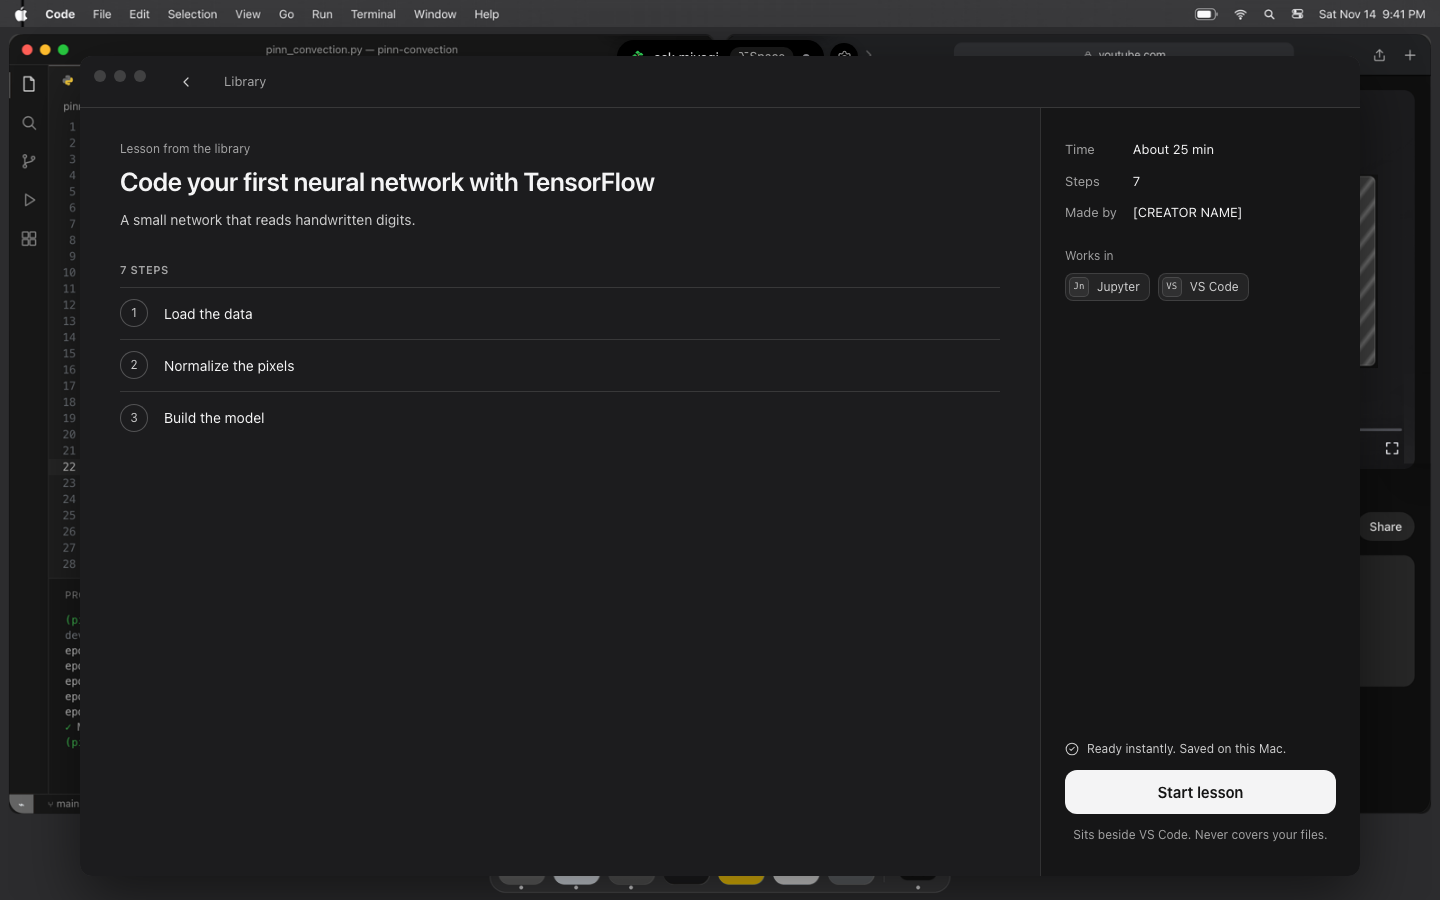
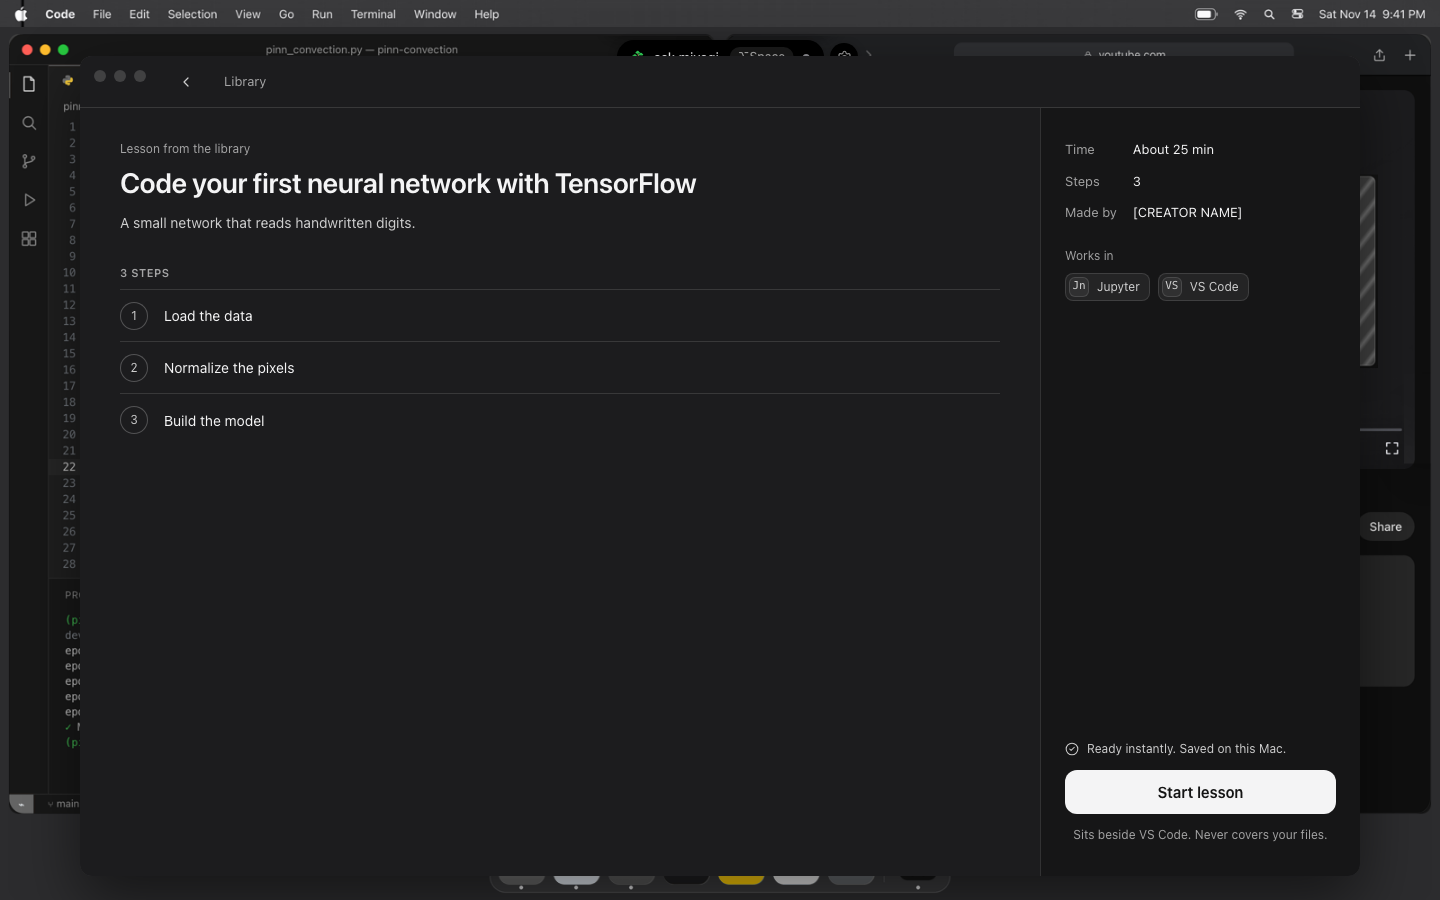
library: fix round 2, shots re-captured from this branch, YouTube preview shot, brief
The stage fixture's first lesson carries a YouTube watch link so the preview's video box
(thumbnail) can be seen in the browser stage.

Changed region(s): [[0.0625, 0.1867, 0.5, 0.2489], [0.0938, 0.3422, 0.2188, 0.4667], [0.0938, 0.28, 0.125, 0.3111]]

diff --git a/app/src/renderer/src/features/library/web.ts b/app/src/renderer/src/features/library/web.ts
@@ -16,7 +16,7 @@ import { canSend } from '../../core/lesson'
 import { cleanDetail, cleanList, isLibraryId, type LibraryDetail } from './sanitize'
 
 const STAGE_ITEMS: LibraryItem[] = [
-  { id: 'stage_mnist', title: 'Code your first neural network with TensorFlow', by: '[CREATOR NAME]', steps: 7, estMinutes: 25, tools: ['jupyter', 'vscode'], ready: true, progress: { stepIndex: 3, stepTitle: 'Train it', total: 7 }, source: { kind: 'youtube', title: 'Code your first neural network with TensorFlow', channel: '[CREATOR NAME]' } },
+  { id: 'stage_mnist', title: 'Code your first neural network with TensorFlow', by: '[CREATOR NAME]', steps: 7, estMinutes: 25, tools: ['jupyter', 'vscode'], ready: true, progress: { stepIndex: 3, stepTitle: 'Train it', total: 7 }, source: { kind: 'youtube', title: 'Code your first neural network with TensorFlow', channel: '[CREATOR NAME]', durationS: 1420, url: 'https://www.youtube.com/watch?v=AXXnSzmpyoI' } },
   { id: 'stage_pandas', title: 'Clean a CSV with pandas', by: '[CREATOR NAME]', steps: 6, estMinutes: 20, tools: ['jupyter'], ready: true, progress: { stepIndex: 2, stepTitle: 'Drop the empty rows', total: 6 } },
   { id: 'stage_venv', title: 'Set up Python with a virtual environment', by: '[ORG NAME]', steps: 5, estMinutes: 10, tools: ['terminal', 'vscode'], ready: true },
   { id: 'stage_plot', title: 'Plot your data with matplotlib', by: '[CREATOR NAME]', steps: 6, estMinutes: 15, tools: ['jupyter'], ready: true },

diff --git a/app/agents/library.md b/app/agents/library.md
@@ -1,6 +1,6 @@
 # library
 
-**Status:** pass 1 done (plan A6): Library window + lesson preview, main data path, stage stand-in; typecheck green, brand lint clean, stage checked headless. Draft PR #168 into `adrian/shell`. Fix round 1 done: a preview that got no answer is asked again on refresh, caps load on their own (no "can't start" until known), the video opens only the canonical watch link, the step count follows the step list, raw style literals moved to tokens, the HTTP body cap counts bytes as they arrive. Not verified in Electron. · **Priority:** P1 · **Port:** 5191 · **Branch:** `michael/app-library`
+**Status:** pass 1 done (plan A6): Library window + lesson preview, main data path, stage stand-in; typecheck green, brand lint clean, stage checked headless. Draft PR #168 into `adrian/shell`. Fix round 1 done: a preview that got no answer is asked again on refresh, caps load on their own (no "can't start" until known), the video opens only the canonical watch link, the step count follows the step list, raw style literals moved to tokens, the HTTP body cap counts bytes as they arrive. Fix round 2 done: the window drags by the sidebar's traffic-light spacer, the list header and the preview back bar (`data-drag`; buttons, inputs and the search box stay clickable); a path anywhere in a string drops that string (`"/Users/…"`, `(/home/…)`, `file:///Users/…`, `'~/…'`, `=C:\…`); shots re-captured from this branch, plus a YouTube preview with its thumbnail. Not verified in Electron. · **Priority:** P1 · **Port:** 5191 · **Branch:** `michael/app-library`
 
 ## Goal
 The Library app window (Home-Library) and a lesson's preview inside it (Home-LessonDetail): the lessons cached on this Mac, a Continue row for the ones left mid-way, a filter by tool, search, and Start lesson, which starts a cached lesson with zero model calls.
@@ -30,7 +30,7 @@ Why main owns the data: the engine's replay log drops `engine.hello` at `lesson.
 ## What it does
 - **List** (1280x820): sidebar (bonsai + wordmark, Library / Continue, Tools filter rows, Excel "Soon"), header (search, New lesson = the one primary, launcher keycap from `platform.keys`), Continue cards (white meter on the track, round Resume = `library.start`), Ready to run grid with All / VS Code / Jupyter / Terminal chips and a disabled "Excel, soon", a dashed "Have a tutorial in mind?" card (Paste a link opens the launcher). Skeletons until the first answer; "No lessons on this Mac yet." when empty; "No lessons match." + Show all when a filter hides everything.
 - **Preview**: back bar (Esc too), kicker from `source.kind`, title, overview, numbered steps, video box when the source is a YouTube https link (i.ytimg.com thumbnail, opens via `open:external`), Time / Steps / Made by, Works in, "Ready instantly. Saved on this Mac.", Start lesson (Enter too). Start waits for `lesson.ready` (15 s), then closes the window so the lesson panel has the screen; an `error` or the timeout shows fixed copy under the button, never the engine's text.
-- **Safety**: every answer goes through `sanitize.ts` twice (main and renderer): ids `^[A-Za-z0-9_-]{1,64}$`, known fields only (no `workdir`, nothing else), strings that look like a home path dropped, lists and strings capped, `source.url` kept only for a YouTube video and rebuilt as `https://www.youtube.com/watch?v=<id>` from the checked id (a `youtube.com/redirect?v=…&q=…` link never leaves the app); the video button opens that canonical link only.
+- **Safety**: every answer goes through `sanitize.ts` twice (main and renderer): ids `^[A-Za-z0-9_-]{1,64}$`, known fields only (no `workdir`, nothing else), a string with a home path anywhere in it dropped (`/Users/`, `/home/`, `/private/`, `/var/`, `/tmp/`, `/opt/`, `~/`, a drive letter `X:\`, whatever comes before it), lists and strings capped, `source.url` kept only for a YouTube video and rebuilt as `https://www.youtube.com/watch?v=<id>` from the checked id (a `youtube.com/redirect?v=…&q=…` link never leaves the app); the video button opens that canonical link only.
 
 ## Deviations from the mockups (and why)
 - No Free plan box (plan: hidden). No "Your lessons" nav: a `LibraryItem` doesn't say who built it.
@@ -47,7 +47,8 @@ Why main owns the data: the engine's replay log drops `engine.hello` at `lesson.
 - `http://localhost:5191/?scenario=home&window=library&size=1440x900&clean` (list; `home` falls back to `full`, whose core-v2 triggers answer library.*)
 - `&id=mnist_intro` (preview), `&library=empty` (empty state), `&library=nocaps` (Start disabled, "This engine can't start saved lessons yet."), `&scenario=happy` (no library trigger: the stage's own fixture items)
 - Checked headless (Chromium, CDP): cards render; search "pandas" leaves one card; Terminal chip filters; card click opens the preview; Esc goes back; Start lesson shows the spinner, the mock answers `lesson.ready`, the window closes. Sanitizer run on hostile input (path ids, home paths, bad progress, duplicate ids, non-YouTube URLs): all dropped.
-- Shots: `shots/library-list.png`, `library-detail.png`, `library-empty.png`, `library-detail-nocaps.png`, `library-fixture.png`.
+- `&scenario=happy&id=stage_mnist`: a YouTube-sourced preview (the stage fixture carries a watch link, so the i.ytimg.com thumbnail shows; the thumbnail is the project's demo video, not a TensorFlow one). `&library=nocaps&id=stage_venv` for the nocaps preview (nocaps reads the stage fixture, which has no `mnist_intro`).
+- Shots (fix round 2, headless Chromium 1440x900 from this branch): `shots/library-list.png`, `library-detail.png` (3 steps, Steps 3), `library-detail-nocaps.png`, `library-empty.png`, `library-fixture.png`, `library-detail-youtube.png` (video box with thumbnail).
 - Not verified: Electron (`npm run dev`), the HTTP fallback against a real engine (E1/E2 not merged; cost freeze), real window chrome placement of the hiddenInset traffic lights.
 
 ## Core requests
